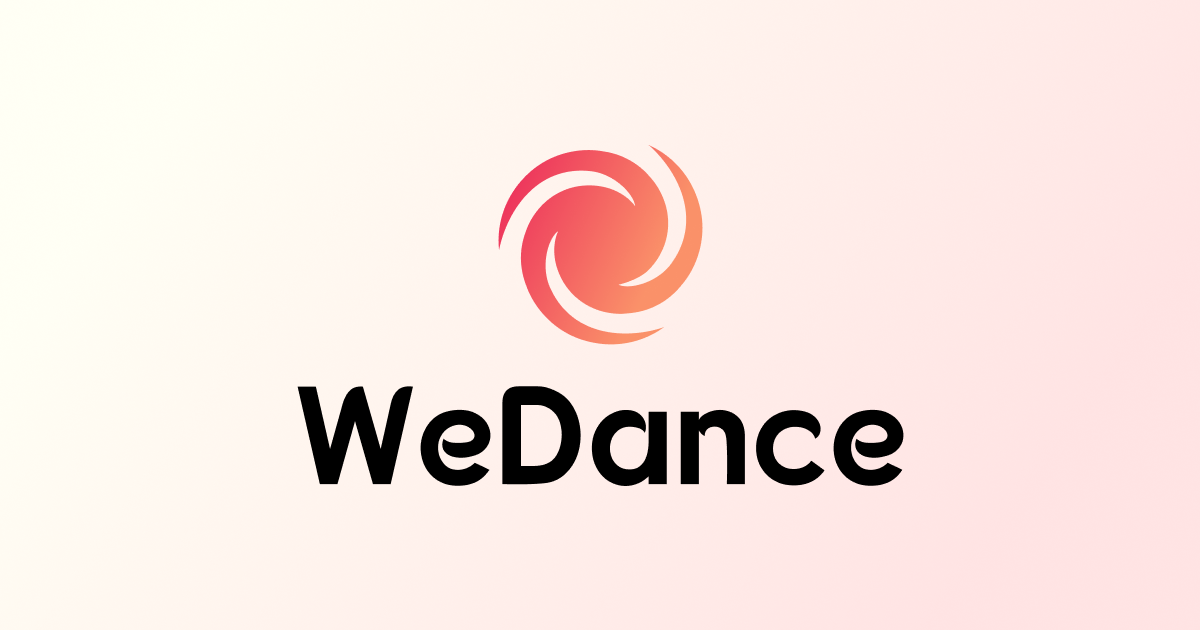
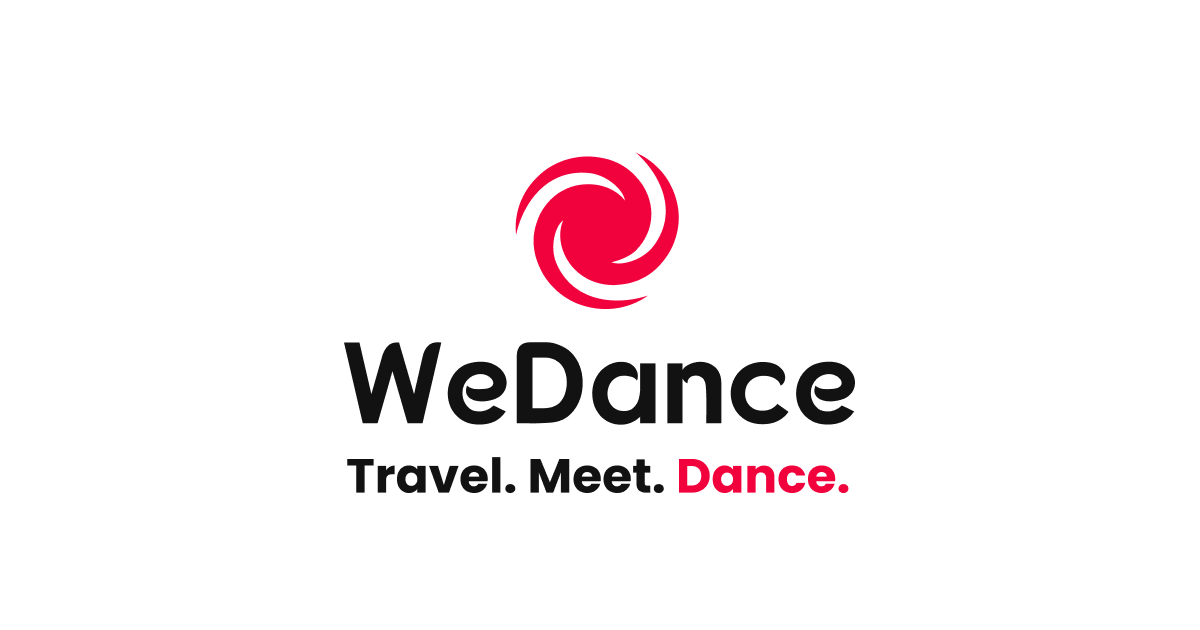
update og:image

Changed region(s): [[0.2467, 0.0, 1.0, 1.0]]

diff --git a/nuxt.config.js b/nuxt.config.js
@@ -3,8 +3,8 @@ import firebase from 'firebase/app'
 import 'firebase/firestore'
 
 export const app = {
-  name: 'WeDance',
-  description: 'We bring dancers together',
+  name: 'Travel. Meet. Dance.',
+  description: 'Discover dance events near you',
   social: {
     twitter: 'WeDancePlatform',
   },
